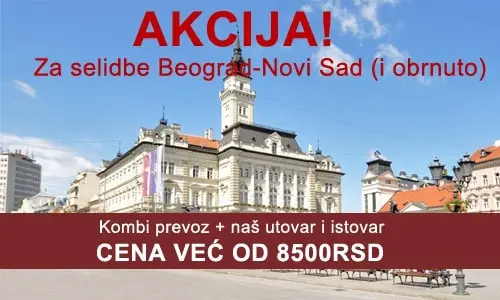
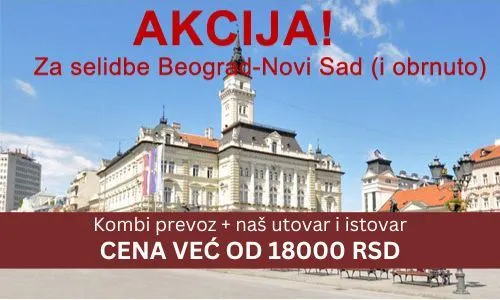
Korigovane cene na dve stranice i promenjene cene na banerima na dve stranice

Changed region(s): [[0.0, 0.03, 1.0, 1.0], [0.0, 0.48, 0.09, 0.63], [0.96, 0.18, 0.99, 0.21]]

diff --git a/kombi-selidbe-beograd.html b/kombi-selidbe-beograd.html
@@ -214,13 +214,13 @@
                     <h2 class="py-3">Primeri cena za kombi selidbe:</h2>
                     <ul class="#">
                         <li><a class="text-link" href="kombi-prevoz-beograd.html">Kombi prevoz</a> jednog komada
-                            bele tehnike, sa našim utovarom i istovarom-cena je 4000 rsd
+                            bele tehnike, sa našim utovarom i istovarom-cena je 4500 - 6000 rsd
                         </li>
-                        <li>Kombi prevoz jednog komada nameštaja, sa našim utovarom i istovarom-cena je 4000 – 3500rsd
+                        <li>Kombi prevoz jednog komada nameštaja, sa našim utovarom i istovarom-cena je 4500 – 6000 rsd
                         </li>
-                        <li>Kombi prevoz ugaone garniture sa našim utovarom i istovarom – cena je 4500 rsd</li>
+                        <li>Kombi prevoz ugaone garniture sa našim utovarom i istovarom – cena je 5000 - 7000 rsd</li>
                         <li>Kombi prevoz trosed, dvosed, fotelja, frižider, veš mašina, sudo – mašina, šporet, 2 – 3
-                            komada manjeg nameštaja i 15-ak kutija sa stvarima – cena je 7000 rsd
+                            komada manjeg nameštaja i 15-ak kutija sa stvarima – cena je oko 12000 rsd
                         </li>
                     </ul>
                     <p class="py-2">* Cene su na bazi nošenja stvari do drugog sprata, u slučaju malog lifta ili

diff --git a/usluge-kombi-i-kamionski-prevoz.html b/usluge-kombi-i-kamionski-prevoz.html
@@ -240,10 +240,10 @@
                     <p class="py-3">U saradnji s našim partnerima, možemo Vam ponuditi uslugu prevoza tereta vozilima
                         većih nosivosti (6t, 10t).
                     </p>
-                    <p class="py-3">Kombi U gradu 2500 – 3000</p>
-                    <p class="py-3">Kombi Van grada 40 – 45 din/km</p>
-                    <p class="py-3">Kamion U gradu 4000 – 5000</p>
-                    <p class="py-3">Kamion Van grada 60 din/km</p>
+                    <p class="py-3">Kombi U gradu 3000 – 4000</p>
+                    <p class="py-3">Kombi Van grada 50 – 60 din/km</p>
+                    <p class="py-3">Kamion U gradu 5000 – 6000</p>
+                    <p class="py-3">Kamion Van grada 70 din/km</p>
                     <picture>
                         <source media="(min-width: 768px)"
                                 srcset="images/selidbe-i-prevoz-kamionom.webp"
